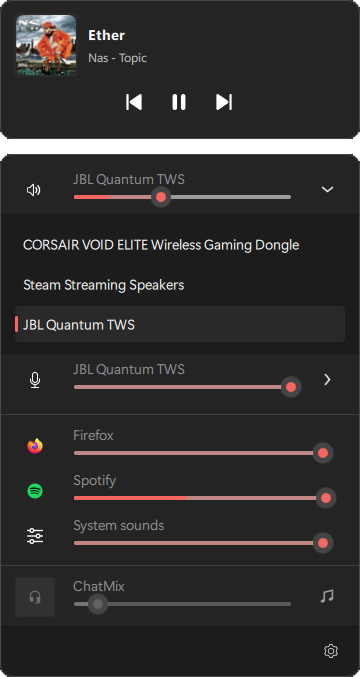
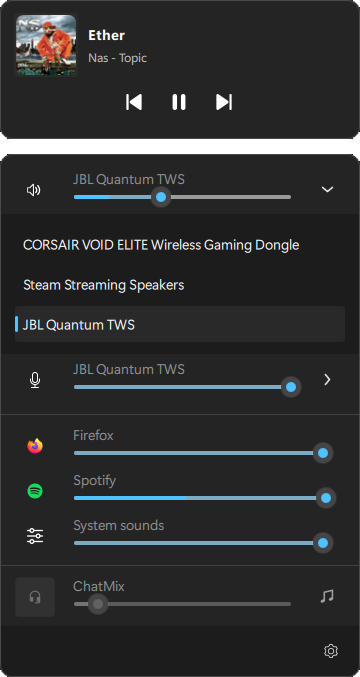
docs: Update README to highlight HeadsetControl and refresh screenshot

diff --git a/README.md b/README.md
@@ -1,12 +1,12 @@
 # QontrolPanel
 
-[![Github Latest Releases](https://img.shields.io/github/downloads/ChrisLauinger77/QontrolPanel/latest/total)]()
-[![Version](https://img.shields.io/github/v/release/ChrisLauinger77/qontrolpanel)]()
-[![Github All Releases](https://img.shields.io/github/downloads/ChrisLauinger77/qontrolpanel/total.svg)]()
-[![license](https://img.shields.io/github/license/ChrisLauinger77/qontrolpanel)]()
+[![Github Latest Releases](https://img.shields.io/github/downloads/ChrisLauinger77/QontrolPanel/latest/total)](<>)
+[![Version](https://img.shields.io/github/v/release/ChrisLauinger77/qontrolpanel)](<>)
+[![Github All Releases](https://img.shields.io/github/downloads/ChrisLauinger77/qontrolpanel/total.svg)](<>)
+[![license](https://img.shields.io/github/license/ChrisLauinger77/qontrolpanel)](<>)
 
 QontrolPanel is an enhanced audio panel for Windows.  
-It provide output and input volume / device / mute control as well as application volume mixer.
+It provide output and input volume / device / mute control as well as application volume mixer and [headsetcontrol integration](https://github.com/Sapd/HeadsetControl).
 
 ![image](.assets/screenshot.png)
 
